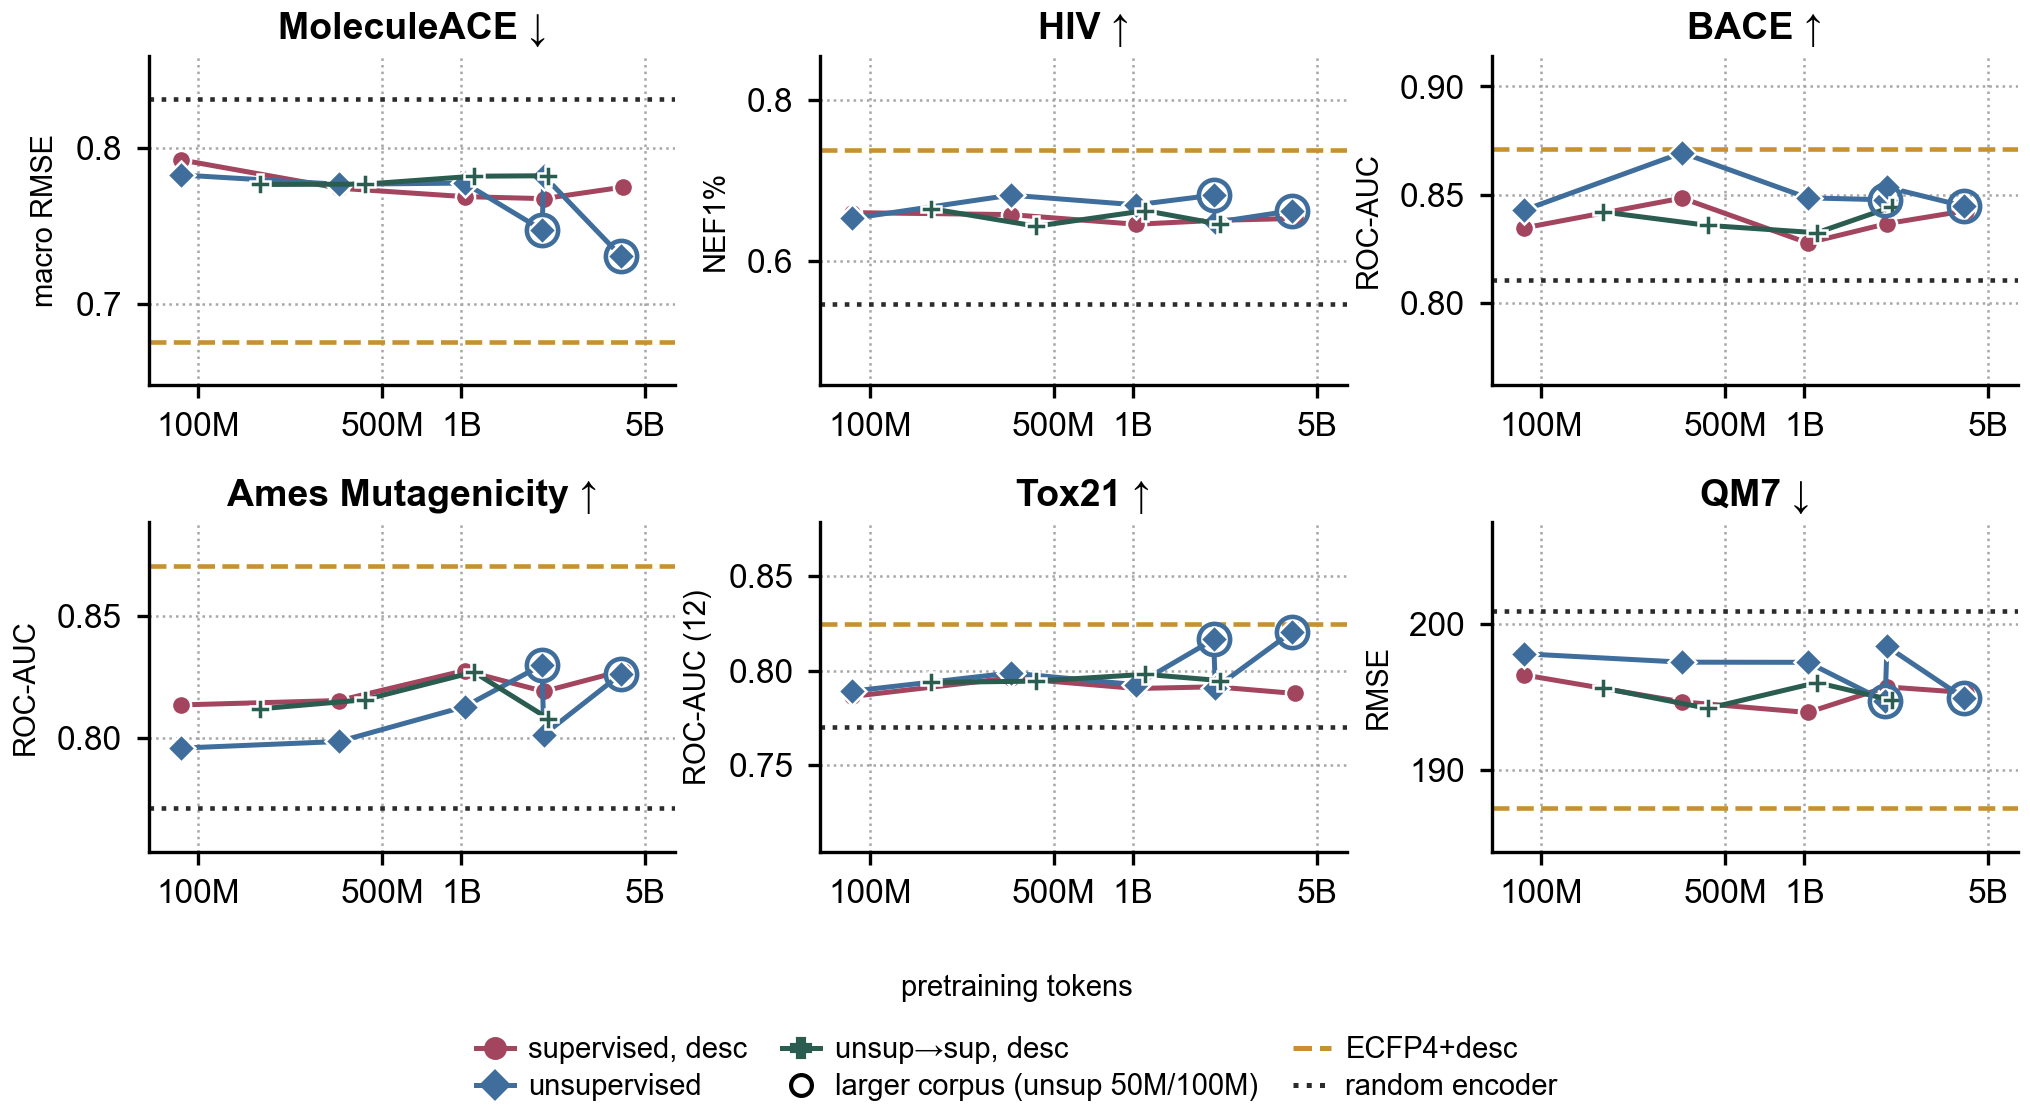
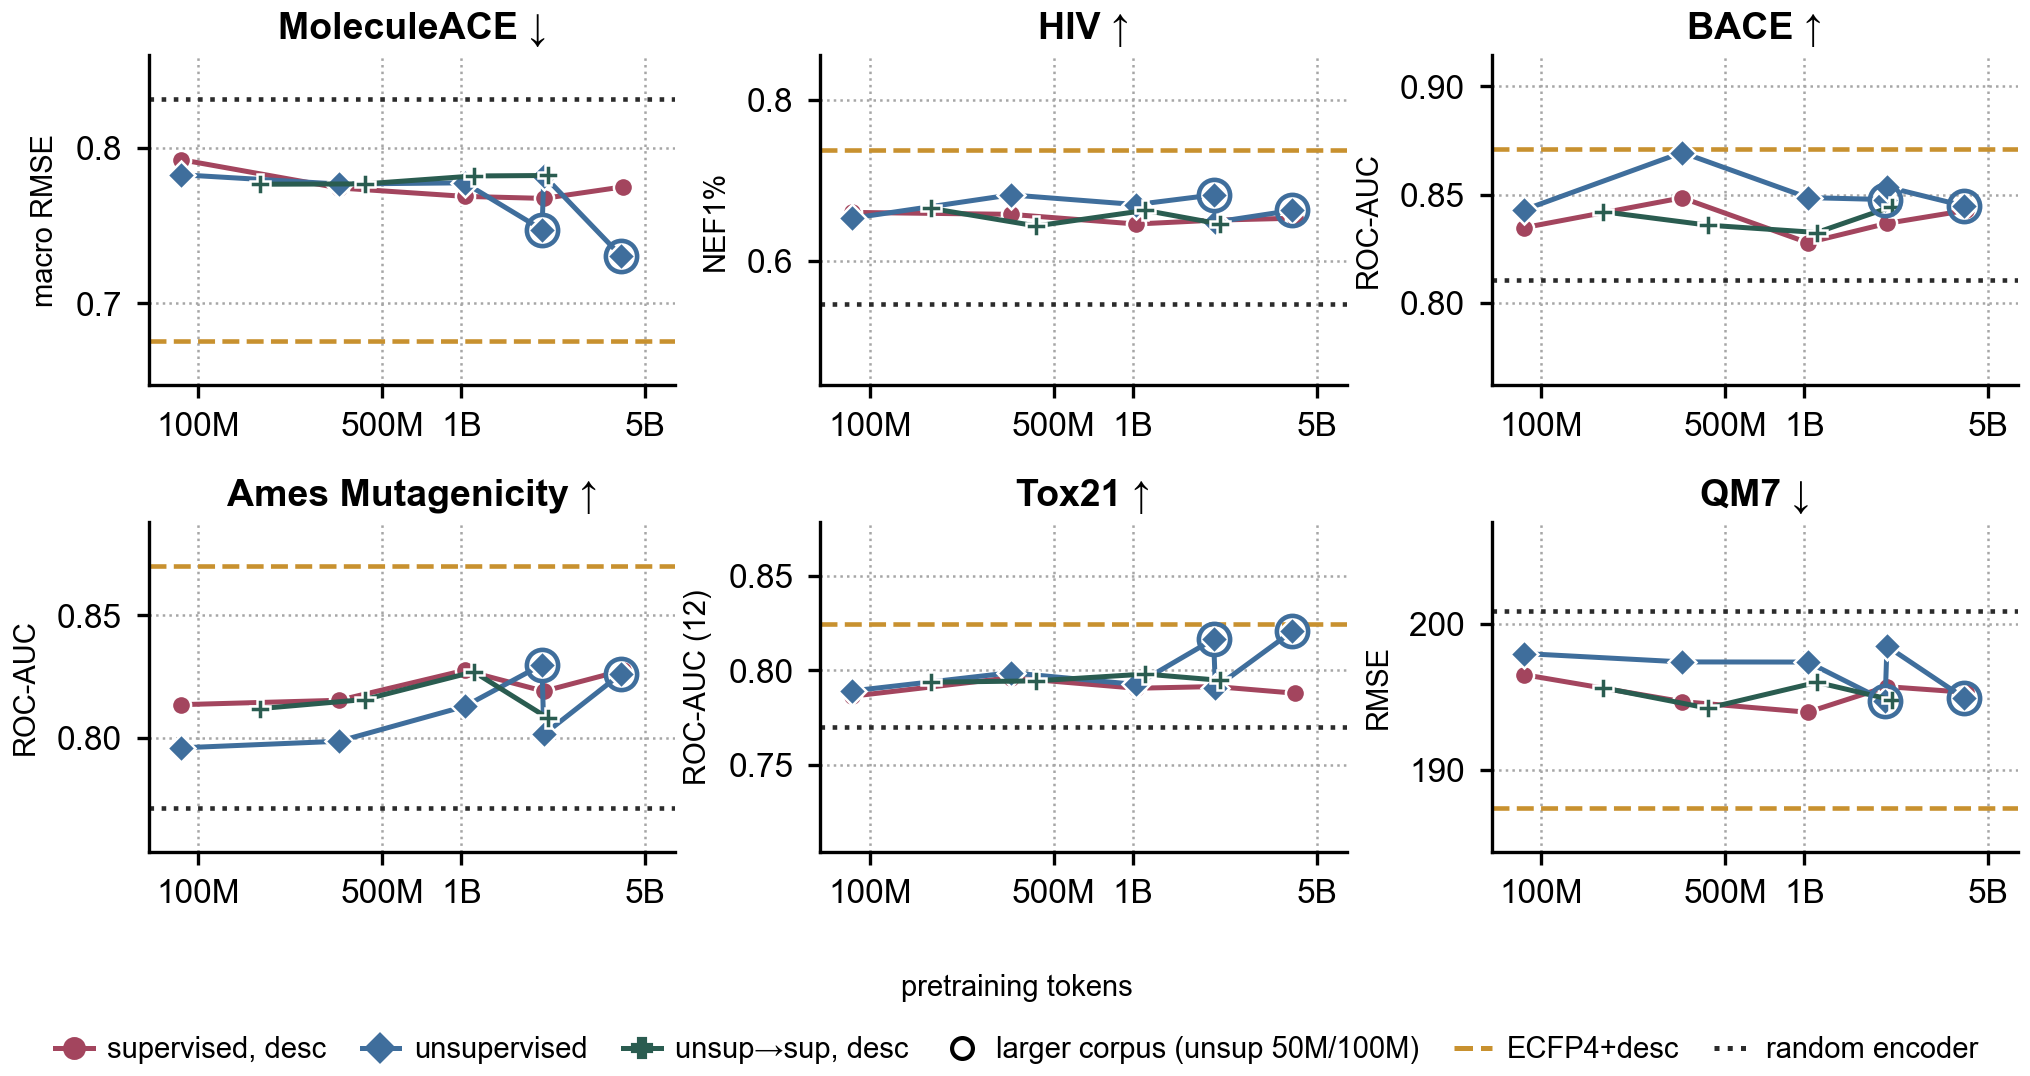
Legends: spend width before height
User rule (2026-08-19): "always try and use the width first before making the
legend longer". A legend ROW costs every figure below it on the page; a legend
COLUMN costs nothing until it runs past the text block.

  SI_fig_a  3 entries, 2 rows -> 1 row
  fig_B     6 entries, 2 rows -> 1 row   (3.70 -> 3.59in)

Both measured against the canvas rather than assumed: fig_B's six entries end
inside the text block, and a legend wider than the figure is what pushes
savefig's tight bbox out and silently rescales the plate in LaTeX.

fig_G stays 2x5 -- its nine entries carry the long arm names and one row of
them is wider than the page, which is the case the rule excludes.

diff --git a/figures/SI_fig_a.py b/figures/SI_fig_a.py
@@ -169,7 +169,10 @@ def main():
                for _, k, lab in SERIES]
     handles.append(Line2D([], [], color=ARMS[ANCHOR_ARM]["color"], ls=":", lw=1.3,
                           label="XGBoost, ECFP4+desc"))
-    fig.legend(handles=handles, loc="upper center", bbox_to_anchor=(0.5, 0.068), ncol=2,
+    # WIDTH FIRST: spend the page's width on the legend before its height (user 2026-08-19).
+    # A legend row costs every figure below it on the page; a legend column costs nothing
+    # until it runs past the text block, and these entries do not.
+    fig.legend(handles=handles, loc="upper center", bbox_to_anchor=(0.5, 0.068), ncol=3,
                fontsize=FS["legend"], handletextpad=0.5, labelspacing=0.3, columnspacing=1.4,
                borderpad=0.0, frameon=False, labelcolor=INK)
     # Legend sits one text-height under the tick labels; see the SI b/d/e note.

diff --git a/figures/fig_B.py b/figures/fig_B.py
@@ -126,7 +126,7 @@ def _panels(banded):
     for a, ls in REF_LINES:
         handles.append(Line2D([], [], color=ARMS[a]["color"], ls=ls, lw=1.2, label=ARMS[a]["label"]))
     fig.legend(handles=handles, loc="upper center", bbox_to_anchor=(0.5, 0.07),
-               ncol=3, fontsize=FS["legend"], handletextpad=0.5, labelspacing=0.3,
+               ncol=6, fontsize=FS["legend"], handletextpad=0.5, labelspacing=0.3,
                columnspacing=1.2, borderpad=0.0, frameon=False, labelcolor=INK)
     # Axes -> shared x-label -> legend, each about one text-height apart (user 2026-08-19:
     # "too much white space"). The legend is anchored just BELOW the x-label rather than
